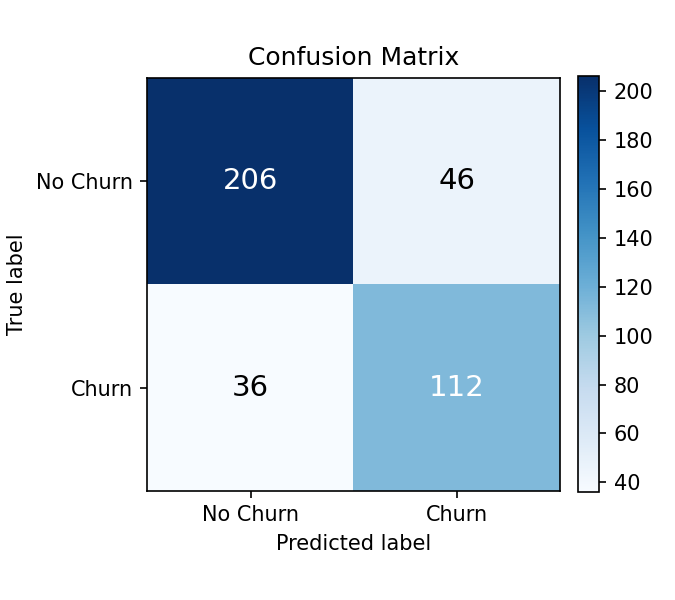
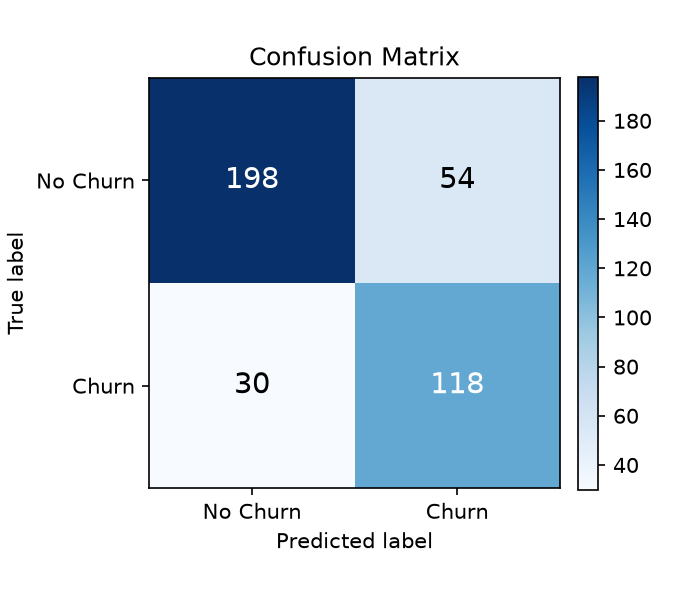
Initial project upload

diff --git a/app.py b/app.py
@@ -1,0 +1,262 @@
+from flask import Flask, request, render_template_string
+import pandas as pd
+import joblib
+from pathlib import Path
+
+app = Flask(__name__)
+
+# Project paths
+BASE_DIR = Path(__file__).resolve().parent
+MODEL_PATH = BASE_DIR / "models" / "churn_pipeline.joblib"
+
+# Load trained model + preprocessing
+pipeline = joblib.load(MODEL_PATH)
+
+HTML = """
+<!DOCTYPE html>
+<html>
+<head>
+    <title>Customer Churn Prediction</title>
+
+    <style>
+        body {
+            font-family: Arial, sans-serif;
+            background: #f2f4f7;
+            margin: 0;
+            padding: 40px;
+        }
+
+        .container {
+            width: 700px;
+            margin: auto;
+            background: white;
+            padding: 30px;
+            border-radius: 12px;
+            box-shadow: 0 4px 15px rgba(0,0,0,0.15);
+        }
+
+        h1 {
+            text-align: center;
+            color: #222;
+        }
+
+        .subtitle {
+            text-align: center;
+            color: #666;
+            margin-bottom: 25px;
+        }
+
+        label {
+            display: block;
+            margin-top: 15px;
+            font-weight: bold;
+        }
+
+        input, select {
+            width: 100%;
+            padding: 10px;
+            margin-top: 6px;
+            border: 1px solid #ccc;
+            border-radius: 6px;
+            box-sizing: border-box;
+        }
+
+        button {
+            width: 100%;
+            padding: 13px;
+            margin-top: 25px;
+            background: #2563eb;
+            color: white;
+            border: none;
+            border-radius: 6px;
+            font-size: 16px;
+            cursor: pointer;
+        }
+
+        button:hover {
+            background: #1d4ed8;
+        }
+
+        .result {
+            margin-top: 25px;
+            padding: 20px;
+            background: #eef6ff;
+            border-radius: 8px;
+            text-align: center;
+        }
+
+        .result h2 {
+            margin-bottom: 10px;
+        }
+
+        .risk {
+            font-size: 20px;
+            font-weight: bold;
+        }
+    </style>
+</head>
+
+<body>
+
+<div class="container">
+
+    <h1>Customer Churn Prediction</h1>
+
+    <p class="subtitle">
+        AI-Based Predictive Model using Random Forest
+    </p>
+
+    <form method="POST">
+
+        <label>Tenure (Months)</label>
+        <input type="number" name="tenure_months" min="0" required>
+
+        <label>Monthly Charges</label>
+        <input type="number" step="0.01" name="monthly_charges" required>
+
+        <label>Total Charges</label>
+        <input type="number" step="0.01" name="total_charges" required>
+
+        <label>Number of Support Calls</label>
+        <input type="number" name="num_support_calls" min="0" required>
+
+        <label>Senior Citizen</label>
+        <select name="senior_citizen">
+            <option value="0">No</option>
+            <option value="1">Yes</option>
+        </select>
+
+        <label>Contract Type</label>
+        <select name="contract_type">
+            <option value="Month-to-month">Month-to-month</option>
+            <option value="One Year">One Year</option>
+            <option value="Two Year">Two Year</option>
+        </select>
+
+        <label>Internet Service</label>
+        <select name="internet_service">
+            <option value="DSL">DSL</option>
+            <option value="Fiber Optic">Fiber Optic</option>
+            <option value="No">No</option>
+        </select>
+
+        <label>Tech Support</label>
+        <select name="tech_support">
+            <option value="No">No</option>
+            <option value="Yes">Yes</option>
+        </select>
+
+        <label>Online Security</label>
+        <select name="online_security">
+            <option value="No">No</option>
+            <option value="Yes">Yes</option>
+        </select>
+
+        <label>Payment Method</label>
+        <select name="payment_method">
+            <option value="Electronic Check">Electronic Check</option>
+            <option value="Mailed Check">Mailed Check</option>
+            <option value="Bank Transfer">Bank Transfer</option>
+            <option value="Credit Card">Credit Card</option>
+        </select>
+
+        <label>Partner</label>
+        <select name="partner">
+            <option value="No">No</option>
+            <option value="Yes">Yes</option>
+        </select>
+
+        <label>Paperless Billing</label>
+        <select name="paperless_billing">
+            <option value="No">No</option>
+            <option value="Yes">Yes</option>
+        </select>
+
+        <button type="submit">
+            Predict Customer Churn
+        </button>
+
+    </form>
+
+    {% if result %}
+
+    <div class="result">
+
+        <h2>{{ result }}</h2>
+
+        <p>
+            Churn Probability:
+            <strong>{{ probability }}%</strong>
+        </p>
+
+        {% if probability|float >= 70 %}
+            <p class="risk">High Risk Customer</p>
+        {% elif probability|float >= 40 %}
+            <p class="risk">Medium Risk Customer</p>
+        {% else %}
+            <p class="risk">Low Risk Customer</p>
+        {% endif %}
+
+    </div>
+
+    {% endif %}
+
+</div>
+
+</body>
+</html>
+"""
+
+
+@app.route("/", methods=["GET", "POST"])
+def home():
+
+    result = None
+    probability = None
+
+    if request.method == "POST":
+
+        data = {
+            "tenure_months": float(request.form["tenure_months"]),
+            "monthly_charges": float(request.form["monthly_charges"]),
+            "total_charges": float(request.form["total_charges"]),
+            "num_support_calls": int(request.form["num_support_calls"]),
+            "senior_citizen": int(request.form["senior_citizen"]),
+
+            "contract_type": request.form["contract_type"],
+            "internet_service": request.form["internet_service"],
+            "tech_support": request.form["tech_support"],
+            "online_security": request.form["online_security"],
+            "payment_method": request.form["payment_method"],
+            "partner": request.form["partner"],
+            "paperless_billing": request.form["paperless_billing"]
+        }
+
+        # Convert input into DataFrame
+        input_data = pd.DataFrame([data])
+
+        # Prediction
+        prediction = pipeline["model"].predict(
+            pipeline["preprocessor"].transform(input_data)
+        )[0]
+
+        probability = pipeline["model"].predict_proba(
+            pipeline["preprocessor"].transform(input_data)
+        )[0][1] * 100
+
+        probability = round(probability, 2)
+
+        if prediction == 1:
+            result = "Customer is likely to CHURN"
+        else:
+            result = "Customer is likely to STAY"
+
+    return render_template_string(
+        HTML,
+        result=result,
+        probability=probability
+    )
+
+
+if __name__ == "__main__":
+    app.run(debug=True)

diff --git a/src/main.py b/src/main.py
@@ -68,20 +68,39 @@ def main():
     X_train = pre.fit_transform(X_train_raw)
     X_test = pre.transform(X_test_raw)
 
-    # 3. Train -----------------------------------------------------------------
+   # 3. Train -----------------------------------------------------------------
     print(f"[3/5] Training '{args.algorithm}' model on {X_train.shape[0]} samples ...")
+
     model = PredictiveModel(algorithm=args.algorithm)
     model.train(X_train, y_train)
     model.save(MODEL_DIR / f"{args.algorithm}.joblib")
 
+    import joblib
+
+    joblib.dump(
+        {
+            "model": model.estimator,
+            "preprocessor": pre.column_transformer
+        },
+        MODEL_DIR / "churn_pipeline.joblib"
+    )
+
     # 4. Evaluate --------------------------------------------------------------
     print(f"[4/5] Evaluating on {X_test.shape[0]} held-out samples ...")
+
     y_pred = model.predict(X_test)
     y_proba = model.predict_proba(X_test)
+
     evaluator = Evaluator(y_test, y_pred, y_proba)
     metrics = evaluator.compute_metrics()
-    evaluator.plot_confusion_matrix(REPORTS_DIR / "confusion_matrix.png")
-    evaluator.plot_roc_curve(REPORTS_DIR / "roc_curve.png")
+
+    evaluator.plot_confusion_matrix(
+        REPORTS_DIR / "confusion_matrix.png"
+    )
+
+    evaluator.plot_roc_curve(
+        REPORTS_DIR / "roc_curve.png"
+    )
 
     print("      Metrics:")
     for k, v in metrics.items():
